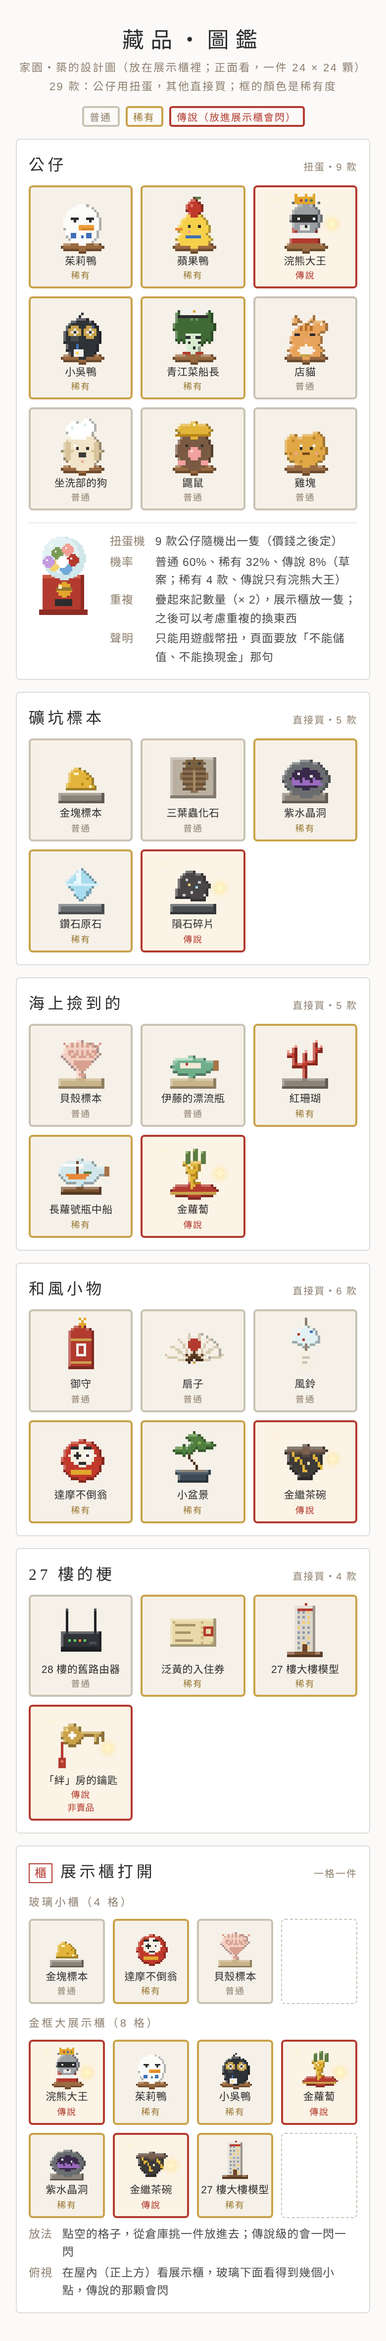
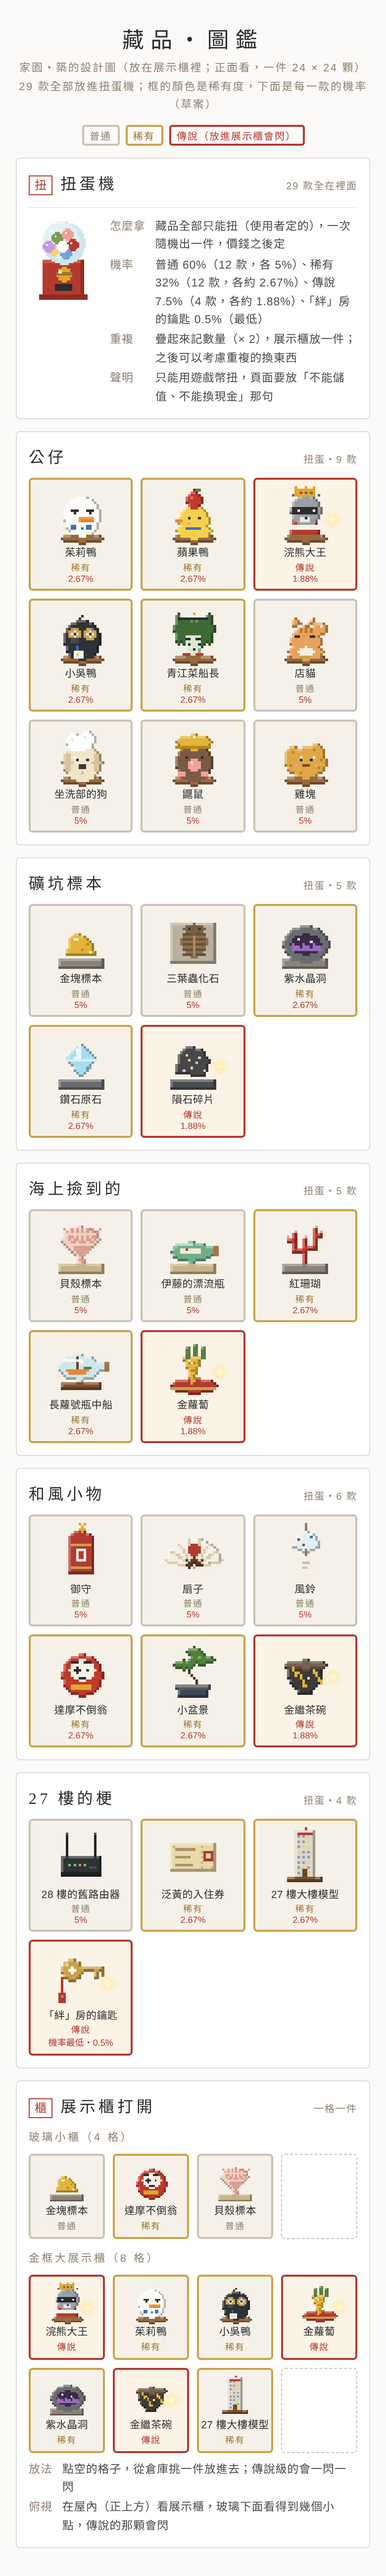
docs: jiayuan all collectibles in gacha
Claude-Session: https://claude.ai/code/session_01DfELKGAuUeHGLNNJha5AAX

diff --git a/docs/plans/jiayuan/collectibles.html b/docs/plans/jiayuan/collectibles.html
@@ -4,7 +4,7 @@
 <meta charset="utf-8">
 <meta name="viewport" content="width=device-width, initial-scale=1">
 <title>家園：藏品圖鑑</title>
-<!-- 家園・築的設計圖（2026-11-21）：藏品圖鑑 29 款（使用者說全做）：公仔 9 用扭蛋，礦坑標本、海上撿到的、和風小物、27 樓的梗直接買；分普通／稀有／傳說。還不是遊戲本身。 -->
+<!-- 家園・築的設計圖（2026-11-21）：藏品圖鑑 29 款（使用者說全做）：全部放進扭蛋機（「絆」房的鑰匙機率最低）；分普通／稀有／傳說。還不是遊戲本身。 -->
 <style>
   :root { --bg: #fcfaf8; --text: #4a4a4a; --dark: #2c2c2c; --accent: #8e8070; --sub: #dcdcdc; --shu: #b33a2f; }
   * { box-sizing: border-box; }
@@ -52,8 +52,12 @@
 <body>
 <main>
   <h1>藏品・圖鑑</h1>
-  <p class="sub">家園・築的設計圖（放在展示櫃裡；正面看，一件 24 × 24 顆）<br><span id="count"></span> 款：公仔用扭蛋，其他直接買；框的顏色是稀有度</p>
+  <p class="sub">家園・築的設計圖（放在展示櫃裡；正面看，一件 24 × 24 顆）<br><span id="count"></span> 款全部放進扭蛋機；框的顏色是稀有度，下面是每一款的機率（草案）</p>
   <p class="legend"><span class="lg r-n">普通</span><span class="lg r-r">稀有</span><span class="lg r-l">傳說（放進展示櫃會閃）</span></p>
+  <section class="card">
+    <div class="h"><span class="no">扭</span><span class="name">扭蛋機</span><span class="tag">29 款全在裡面</span></div>
+    <div class="gacha"><canvas id="gacha" width="40" height="48"></canvas><dl><dt>怎麼拿</dt><dd>藏品全部只能扭（使用者定的），一次隨機出一件，價錢之後定</dd><dt>機率</dt><dd>普通 60%（12 款，各 5%）、稀有 32%（12 款，各約 2.67%）、傳說 7.5%（4 款，各約 1.88%）、「絆」房的鑰匙 0.5%（最低）</dd><dt>重複</dt><dd>疊起來記數量（× 2），展示櫃放一件；之後可以考慮重複的換東西</dd><dt>聲明</dt><dd>只能用遊戲幣扭，頁面要放「不能儲值、不能換現金」那句</dd></dl></div>
+  </section>
   <div id="groups"></div>
   <section class="card">
     <div class="h"><span class="no">櫃</span><span class="name">展示櫃打開</span><span class="tag">一格一件</span></div>
@@ -188,11 +192,14 @@ const D = {
 const RARE = { n: ['普通', '#c9c2b4'], r: ['稀有', '#c9a24a'], l: ['傳說', '#b33a2f'] };
 const GROUPS = [
   ['公仔', '扭蛋', [['茱莉鴨', 'julie', 'r'], ['蘋果鴨', 'appleduck', 'r'], ['浣熊大王', 'raccoon', 'l'], ['小吳鴨', 'xiaowu', 'r'], ['青江菜船長', 'captain', 'r'], ['店貓', 'cat', 'n'], ['坐洗部的狗', 'dog', 'n'], ['鼴鼠', 'mole', 'n'], ['雞塊', 'nugget', 'n']]],
-  ['礦坑標本', '直接買', [['金塊標本', 'goldspec', 'n'], ['三葉蟲化石', 'trilobite', 'n'], ['紫水晶洞', 'geode', 'r'], ['鑽石原石', 'diamond', 'r'], ['隕石碎片', 'meteor', 'l']]],
-  ['海上撿到的', '直接買', [['貝殼標本', 'shell', 'n'], ['伊藤的漂流瓶', 'bottle', 'n'], ['紅珊瑚', 'coral', 'r'], ['長蘿號瓶中船', 'shipbottle', 'r'], ['金蘿蔔', 'goldcarrot', 'l']]],
-  ['和風小物', '直接買', [['御守', 'omamori', 'n'], ['扇子', 'fan', 'n'], ['風鈴', 'furin', 'n'], ['達摩不倒翁', 'daruma', 'r'], ['小盆景', 'bonsai', 'r'], ['金繼茶碗', 'kintsugi', 'l']]],
-  ['27 樓的梗', '直接買', [['28 樓的舊路由器', 'router', 'n'], ['泛黃的入住券', 'oldticket', 'r'], ['27 樓大樓模型', 'tower', 'r'], ['「絆」房的鑰匙', 'key', 'l', '非賣品']]],
+  ['礦坑標本', '扭蛋', [['金塊標本', 'goldspec', 'n'], ['三葉蟲化石', 'trilobite', 'n'], ['紫水晶洞', 'geode', 'r'], ['鑽石原石', 'diamond', 'r'], ['隕石碎片', 'meteor', 'l']]],
+  ['海上撿到的', '扭蛋', [['貝殼標本', 'shell', 'n'], ['伊藤的漂流瓶', 'bottle', 'n'], ['紅珊瑚', 'coral', 'r'], ['長蘿號瓶中船', 'shipbottle', 'r'], ['金蘿蔔', 'goldcarrot', 'l']]],
+  ['和風小物', '扭蛋', [['御守', 'omamori', 'n'], ['扇子', 'fan', 'n'], ['風鈴', 'furin', 'n'], ['達摩不倒翁', 'daruma', 'r'], ['小盆景', 'bonsai', 'r'], ['金繼茶碗', 'kintsugi', 'l']]],
+  ['27 樓的梗', '扭蛋', [['28 樓的舊路由器', 'router', 'n'], ['泛黃的入住券', 'oldticket', 'r'], ['27 樓大樓模型', 'tower', 'r'], ['「絆」房的鑰匙', 'key', 'l', '機率最低']]],
 ];
+// 機率（草案）：普通 60%（12 款平分）、稀有 32%（12 款平分）、傳說 7.5%（4 款平分）、「絆」房的鑰匙 0.5%（全部裡面最低）
+const ODDS = { n: 60, r: 32, l: 7.5, key: 0.5 };
+function odds(key, r) { if (key === 'key') return ODDS.key + '%'; const cnt = GROUPS.flatMap(g => g[2]).filter(x => x[2] === r && x[1] !== 'key').length; return (ODDS[r] / cnt).toFixed(r === 'n' ? 0 : 2).replace(/\.?0+$/, '') + '%'; }
 function icon(key) { const cv = document.createElement('canvas'); cv.width = CW; cv.height = CH; const x = cv.getContext('2d'); x.imageSmoothingEnabled = false; D[key].pre(x); shade(x); D[key].post(x); return cv; }
 function tile(name, key, r, how) {
   const d = document.createElement('div'); d.className = 'it r-' + r; d.appendChild(icon(key));
@@ -202,8 +209,7 @@ function sheet() {
   const box = document.getElementById('groups'); let n = 0;
   GROUPS.forEach(([g, how, items]) => {
     const sec = document.createElement('section'); sec.className = 'card'; sec.innerHTML = `<div class="h"><span class="name">${g}</span><span class="tag">${how}・${items.length} 款</span></div><div class="grid"></div>`; box.appendChild(sec);
-    if (g === '公仔') sec.insertAdjacentHTML('beforeend', '<div class="gacha"><canvas id="gacha" width="40" height="48"></canvas><dl><dt>扭蛋機</dt><dd>9 款公仔隨機出一隻（價錢之後定）</dd><dt>機率</dt><dd>普通 60%、稀有 32%、傳說 8%（草案；稀有 4 款、傳說只有浣熊大王）</dd><dt>重複</dt><dd>疊起來記數量（× 2），展示櫃放一隻；之後可以考慮重複的換東西</dd><dt>聲明</dt><dd>只能用遊戲幣扭，頁面要放「不能儲值、不能換現金」那句</dd></dl></div>');
-    items.forEach(([name, key, r, how2]) => { sec.querySelector('.grid').appendChild(tile(name, key, r, how2)); n++; });
+    items.forEach(([name, key, r, how2]) => { sec.querySelector('.grid').appendChild(tile(name, key, r, (how2 ? how2 + '・' : '') + odds(key, r))); n++; });
   });
   document.getElementById('count').textContent = n;
   // 扭蛋機

diff --git a/docs/plans/jiayuan/README.md b/docs/plans/jiayuan/README.md
@@ -110,12 +110,13 @@
   - 大型 5（最低要 參 太空港）：四推進器重型火箭（發射台參階那一枚）、三芯重型火箭（三根芯並排，兩邊會飛回來降落）、多節重型火箭（三節一路變細、最高）、太空梭（橘色燃料槽＋兩根推進器＋三角翼）、金箔重型火箭（上段包金箔、重型裡最貴）。
   - 每種一枚（跟載具一樣，`max: 1`）；發射台一次立一枚，其他收在倉庫。
 - `teaser.png`（2026-11-21）：**預告圖**，1440 × 1800 直式。使用者要「名稱改『我的島嶼』、加一點神秘感」；夜裡的版本使用者說「好陰暗」、一排塗黑的設施標籤「不文雅」，改成**清晨的白霧**：整座島（全部蓋到最高那張，放大兩倍）罩在淡淡的霧裡，只有火箭和發射塔清楚地從霧裡冒出來，飛機、別墅、車廊只剩一點影子；上面小字「外海某處・座標不明」、「我的島嶼」、「地圖上沒有它，但它一直在等你」、朱色「預告」章；左下角一張褪色的拍立得「第一天」（起點小島）；下面「霧散開之前，誰也不知道上面有什麼」、「會員・我　即將登島　遊戲幣限定」。不寫有哪些設施。
-- `collectibles.html`／`collectibles.png`（2026-11-21）：**藏品圖鑑**（放展示櫃）。使用者定的：**全做（29 款）**、**公仔用扭蛋，其他直接買**、**分普通／稀有／傳說**（框：枯茶／金／朱，傳說放進展示櫃會一閃一閃）。正面看，一件 24 × 24 顆。名字、稀有度都是暫定：
-  - 公仔 9（扭蛋，跟頭像同一批角色）：茱莉鴨、蘋果鴨、小吳鴨、青江菜船長（稀有）、浣熊大王（傳說）、店貓、坐洗部的狗、鼴鼠、雞塊（普通）。扭蛋機草案：一次價錢之後定、普通 60%／稀有 32%／傳說 8%；重複的疊起來記數量、展示櫃放一隻（之後可以考慮重複的換東西）；**只能用遊戲幣扭，頁面要放「不能儲值、不能換現金」那句**。
+- `collectibles.html`／`collectibles.png`（2026-11-21）：**藏品圖鑑**（放展示櫃）。使用者定的：**全做（29 款）**、**全部放進扭蛋機**（一開始是公仔扭蛋、其他直接買，同一天改成全部只能扭，含「絆」房的鑰匙）、**分普通／稀有／傳說**（框：枯茶／金／朱，傳說放進展示櫃會一閃一閃）。正面看，一件 24 × 24 顆。名字、稀有度都是暫定：
+  - **扭蛋機**（29 款全在裡面）：一次隨機出一件、價錢之後定；機率草案：普通 60%（12 款各 5%）、稀有 32%（12 款各約 2.67%）、傳說 7.5%（4 款各約 1.88%）、**「絆」房的鑰匙 0.5%（使用者說機率最低）**；
+  - 公仔 9（跟頭像同一批角色）：茱莉鴨、蘋果鴨、小吳鴨、青江菜船長（稀有）、浣熊大王（傳說）、店貓、坐洗部的狗、鼴鼠、雞塊（普通）。扭蛋其他規則：重複的疊起來記數量、展示櫃放一隻（之後可以考慮重複的換東西）；**只能用遊戲幣扭，頁面要放「不能儲值、不能換現金」那句**。
   - 礦坑標本 5：金塊標本、三葉蟲化石（普通）、紫水晶洞、鑽石原石（稀有）、隕石碎片（傳說）。
   - 海上撿到的 5：貝殼標本、伊藤的漂流瓶（普通）、紅珊瑚、長蘿號瓶中船（稀有）、金蘿蔔（傳說）。
   - 和風小物 6：御守、扇子、風鈴（普通）、達摩不倒翁、小盆景（稀有）、金繼茶碗（傳說）。
-  - 27 樓的梗 4：28 樓的舊路由器（普通）、泛黃的入住券、27 樓大樓模型（稀有）、「絆」房的鑰匙（傳說，**非賣品**，怎麼拿之後定，例如真的住過絆房的人）。
+  - 27 樓的梗 4：28 樓的舊路由器（普通）、泛黃的入住券、27 樓大樓模型（稀有）、「絆」房的鑰匙（傳說，扭蛋機率最低 0.5%）。
   - 展示櫃打開：玻璃小櫃 4 格、金框大展示櫃 8 格，點空格從倉庫挑一件放進去；屋內正上方看，玻璃下面是幾個小點、傳說的那顆會閃。
 - `clothes.html`／`clothes.png`（2026-11-21）：**衣服圖鑑**，使用者說「衣服先做 20 種款式」。正面看、掛在衣架上，一件 24 × 28 顆（衣櫃一格一件）；每款 1～3 色，同一款不同顏色算不同種、一模一樣的疊在同一格。等級跟家具一樣分平價／高級／豪華。名字、顏色都是暫定：
   - 上衣 7：素T（平價）、條紋T（平價）、背心（平價）、丼步喱T（高級，胸口一顆朱印）、長袖襯衫（高級）、麻花毛衣（高級）、連帽衫（平價）。

diff --git a/changelog/2026-11.md b/changelog/2026-11.md
@@ -905,3 +905,6 @@
 
 ## 2026-11-21 19:00（台灣）　家園企劃：藏品圖鑑
 - 畫了藏品圖鑑 `docs/plans/jiayuan/collectibles.html`（和截圖）：29 款（公仔 9 用扭蛋，礦坑標本、海上撿到的、和風小物、27 樓的梗直接買），分普通、稀有、傳說，傳說的會閃；還有扭蛋機和展示櫃打開的樣子。網站本身沒有改。
+
+## 2026-11-21 19:10（台灣）　家園企劃：藏品全部放進扭蛋機
+- 29 款藏品全部只能扭（不直接賣了），包含「絆」房的鑰匙，鑰匙機率最低（0.5%）。圖鑑每一款下面寫機率（草案）。網站本身沒有改。
